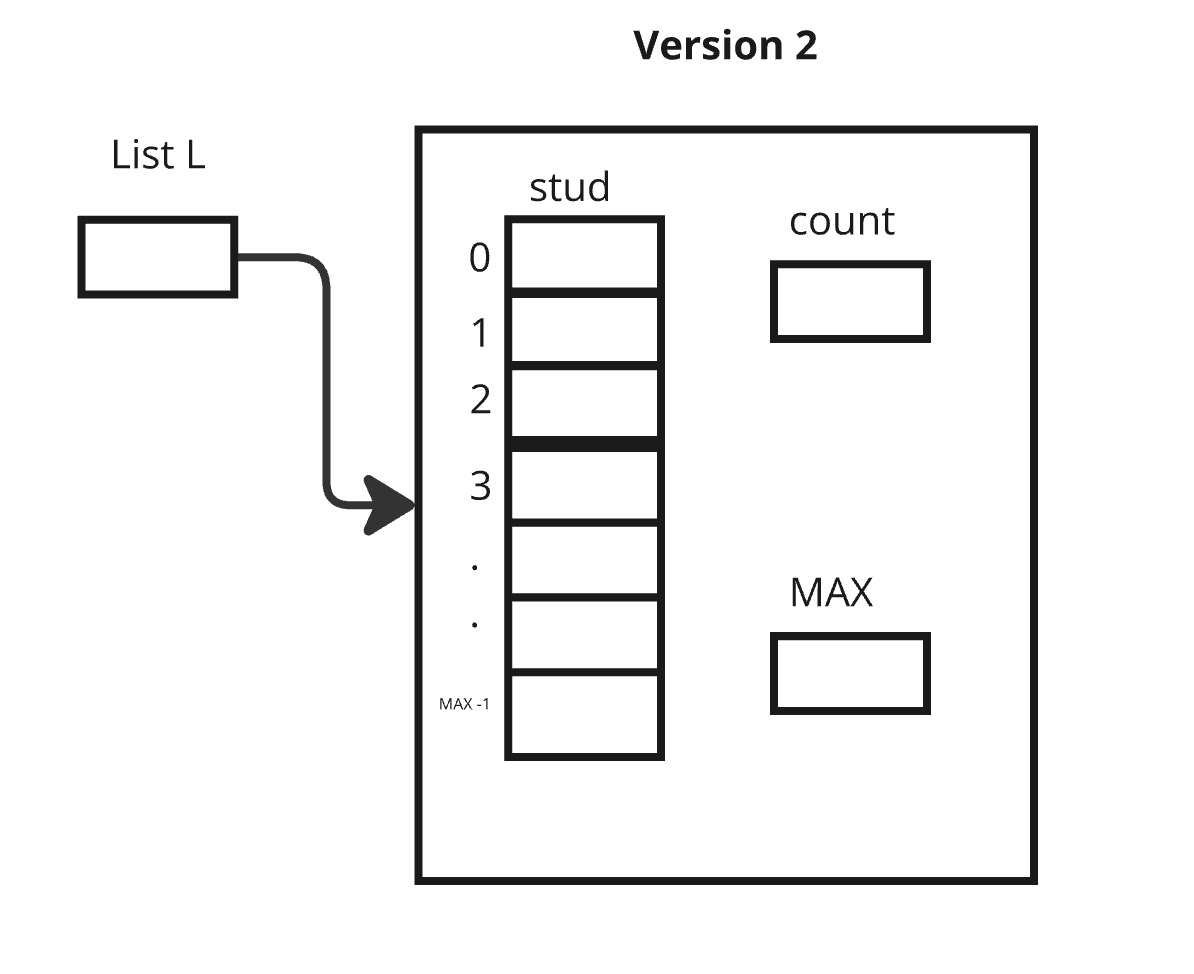
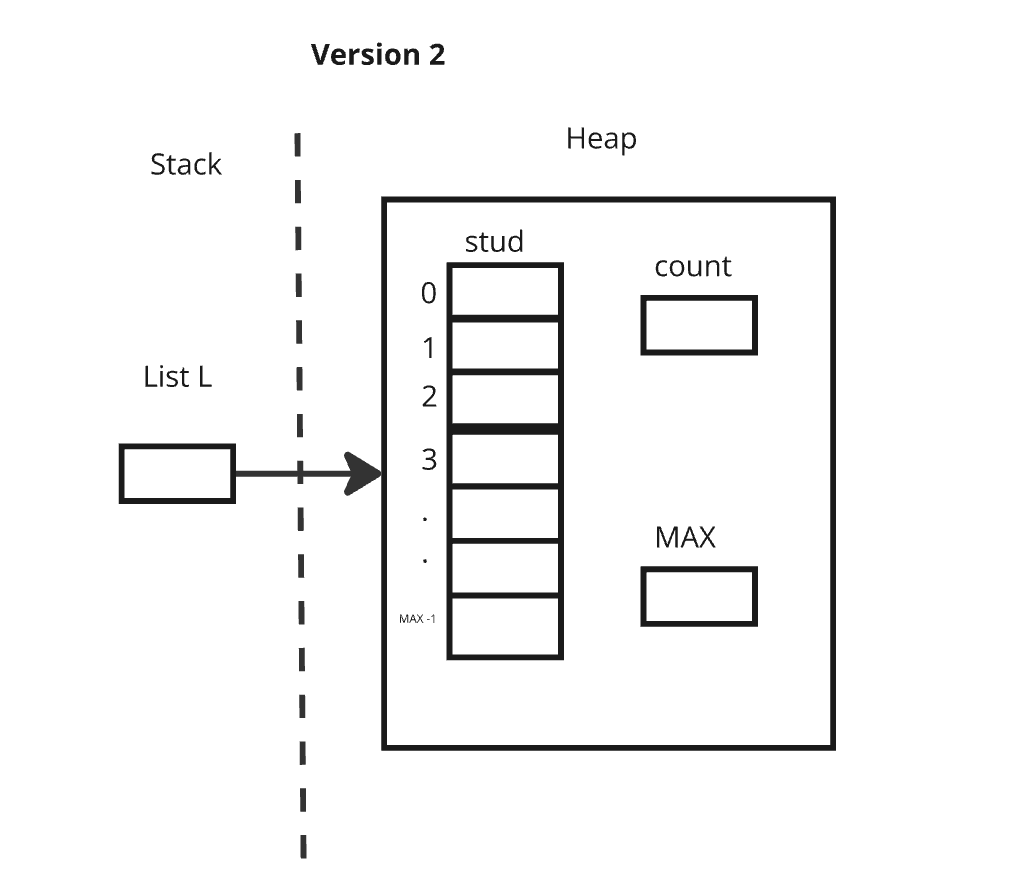
visualization of array implementatio

diff --git a/MIDTERM/arrayImplementation/README.md b/MIDTERM/arrayImplementation/README.md
@@ -8,7 +8,7 @@
 **Challenge:** Try to write the definition of the code based on the provided picture.
 
 ## Version Two
-- List is a pointer to a structure containing an array and variable count. 
+- List is a pointer to a structure (a dynamic) containing an array and variable count. 
 
 <img src = "../../images/versiontwo.png">
 
